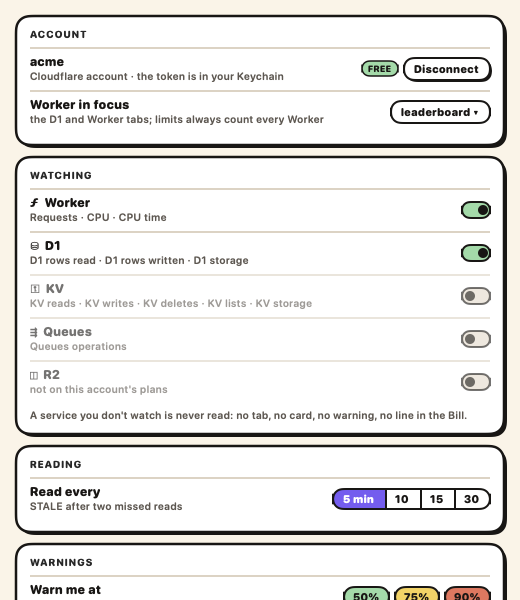
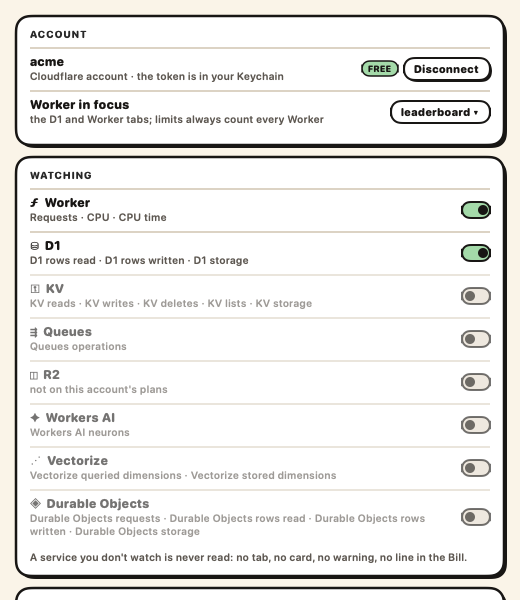
Workers AI, Vectorize, Durable Objects, off until watched (slices 13–15)
Workers AI's 10k neurons are a daily allowance on both plans; on Workers
Paid its overage is billed day by day (law 24), and a busy day is
charged, never a day the plan stopped you. Vectorize counts queried and
stored dimensions; Durable Objects requests, SQLite rows and storage.
Datasets verified by introspection. New units: neurons, dimensions.

Changed region(s): [[0.0, 0.66, 0.9846, 1.0]]

diff --git a/Modules/Plans/Sources/Plan.swift b/Modules/Plans/Sources/Plan.swift
@@ -24,6 +24,10 @@ public struct Plan: Sendable, Equatable {
 
     func price(for limit: LimitID) -> Price? { owner(of: limit)?.definition.price(for: limit) }
 
+    /// Whether use past the allowance fails instead of being charged: Free stops, Workers Paid
+    /// charges, even for a daily allowance like Workers AI's (laws 19, 24).
+    public func stops(at limit: LimitID) -> Bool { price(for: limit) == nil }
+
     /// The period a limit's reading covers at `now` (CANONICAL law 5), on the renewal of the
     /// subscription that names it; nil for what never resets and for a limit no plan counts.
     public func period(for limit: LimitID, at now: Date) -> Period? {
@@ -33,11 +37,13 @@ public struct Plan: Sendable, Equatable {
 
     /// One line per priced limit: its use, what the plan includes, and the price of the rest
     /// (law 20). The subscription is not a line; the lines and it add up to `cost(of:)`.
-    public func lines(of used: [LimitID: Quantity]) -> [CostLine] {
+    /// `days` is each daily limit's use per UTC day this month; `stretch` scales a daily limit's
+    /// overage to the month's end for a forecast or a quote (law 24).
+    public func lines(of used: [LimitID: Quantity], days: [LimitID: [Date: Quantity]] = [:], stretch: Double = 1) -> [CostLine] {
         used.compactMap { limit, quantity -> CostLine? in
-            guard let price = price(for: limit), let allowance = allowance(for: limit) else { return nil }
-            return CostLine(limit: limit, used: quantity, included: allowance.amount,
-                            cost: price.cost(of: quantity, allowance: allowance.amount))
+            guard let cost = cost(of: limit, used: quantity, days: days[limit], stretch: stretch),
+                  let allowance = allowance(for: limit) else { return nil }
+            return CostLine(limit: limit, used: quantity, included: allowance.amount, cost: cost)
         }
         .sorted { $0.limit.rawValue < $1.limit.rawValue }
     }
@@ -45,12 +51,23 @@ public struct Plan: Sendable, Equatable {
     /// The subscriptions (this plan's and its add-ons'), plus for each limit the price of what
     /// went past its allowance (CANONICAL laws 13–14, 23). `used` is each limit's use over the
     /// billing month.
-    public func cost(of used: [LimitID: Quantity]) -> Money {
+    public func cost(of used: [LimitID: Quantity], days: [LimitID: [Date: Quantity]] = [:], stretch: Double = 1) -> Money {
         let subscriptions = addOns.reduce(definition.subscription) { $0 + $1.definition.subscription }
         return used.reduce(subscriptions) { total, entry in
-            guard let price = price(for: entry.key), let allowance = allowance(for: entry.key) else { return total }
-            return total + price.cost(of: entry.value, allowance: allowance.amount)
+            guard let cost = cost(of: entry.key, used: entry.value, days: days[entry.key], stretch: stretch) else { return total }
+            return total + cost
         }
+    }
+
+    /// One limit's price past its allowance; nil when no plan prices it. A daily allowance with
+    /// a price is billed day by day: each UTC day's use past it, added up (law 24).
+    func cost(of limit: LimitID, used: Quantity, days: [Date: Quantity]?, stretch: Double) -> Money? {
+        guard let price = price(for: limit), let allowance = allowance(for: limit) else { return nil }
+        guard case .perDay(let daily) = allowance, let days, !days.isEmpty else {
+            return price.cost(of: used, allowance: allowance.amount)
+        }
+        let over = days.values.reduce(0) { $0 + max($1.value - daily.value, 0) } * stretch
+        return price.cost(of: Quantity(over, daily.unit), allowance: Quantity(0, daily.unit))
     }
 }
 

diff --git a/Modules/Services/Tests/BuiltInServicesTests.swift b/Modules/Services/Tests/BuiltInServicesTests.swift
@@ -5,8 +5,35 @@ import Measures
 /// The built-in service files, read through the real JSON.
 @Suite
 struct BuiltInServicesTests {
-    @Test func `should show Workers, then D1, KV, Queues and R2`() throws {
-        #expect(try ServiceCatalog.builtIns().map(\.id) == ["workers", "d1", "kv", "queues", "r2"])
+    @Test func `should show Workers, then D1, KV, Queues, R2, Workers AI, Vectorize and Durable Objects`() throws {
+        #expect(try ServiceCatalog.builtIns().map(\.id) == ["workers", "d1", "kv", "queues", "r2", "ai", "vectorize", "durable-objects"])
+    }
+
+    @Test func `should leave every service but Workers and D1 off until the person watches it`() throws {
+        #expect(try ServiceCatalog.builtIns().filter { !$0.watchedByDefault }.map(\.id)
+                == ["kv", "queues", "r2", "ai", "vectorize", "durable-objects"])
+    }
+
+    @Test func `should know Workers AI counts neurons across every model`() throws {
+        let neurons = try #require(try ServiceCatalog.builtIn("ai").limits.first)
+        #expect(neurons.id == "ai.neurons")
+        #expect(neurons.unit == .neurons)
+        #expect(neurons.read == .sum(Read.Source(dataset: "aiInferenceAdaptiveGroups", field: "sum.totalNeurons", time: .datetime)))
+    }
+
+    @Test func `should know Vectorize counts queried dimensions, and stored dimensions across every index`() throws {
+        let vectorize = try ServiceCatalog.builtIn("vectorize")
+        #expect(vectorize.limits.map(\.id) == ["vectorize.queried", "vectorize.stored"])
+        #expect(vectorize.limits[1].read == .max(Read.Source(dataset: "vectorizeV2StorageAdaptiveGroups", field: "max.storedVectorDimensions",
+                                                             time: .datetime, focus: "indexName")))
+    }
+
+    @Test func `should know Durable Objects counts requests, SQLite rows and storage`() throws {
+        let objects = try ServiceCatalog.builtIn("durable-objects")
+        #expect(objects.limits.map(\.id) == ["durable-objects.requests", "durable-objects.rowsRead",
+                                             "durable-objects.rowsWritten", "durable-objects.storage"])
+        #expect(objects.limits[1].read == .sum(Read.Source(dataset: "durableObjectsPeriodicGroups", field: "sum.rowsRead",
+                                                           time: .datetime, focus: "namespaceId")))
     }
 
     @Test func `should know R2's Class B is reads like GetObject and HeadObject, and leave R2 off until watched`() throws {
@@ -31,7 +58,7 @@ struct BuiltInServicesTests {
         #expect(queues.watchedByDefault == false)
     }
 
-    @Test func `should know KV writes are KV's write operations, and leave KV off until the person watches it`() throws {
+    @Test func `should know KV writes are KV's write operations`() throws {
         let kv = try ServiceCatalog.builtIn("kv")
 
         let writes = try #require(kv.limits.first { $0.id == "kv.writes" })

diff --git a/Modules/Plans/Tests/PlanTests.swift b/Modules/Plans/Tests/PlanTests.swift
@@ -124,6 +124,36 @@ struct BuiltInPlansTests {
         #expect(paid.cost(of: ["queues.operations": Quantity(3_000_000, .operations)]) == Money(Decimal(string: "5.80")!, "USD"))
     }
 
+    @Test func `should allow 10k Workers AI neurons a day on both plans, and charge past it only on Workers Paid`() throws {
+        #expect(try PlanCatalog.builtIn("free").allowance(for: "ai.neurons") == .perDay(Quantity(10_000, .neurons)))
+        #expect(try PlanCatalog.builtIn("free").price(for: "ai.neurons") == nil)
+        #expect(try PlanCatalog.builtIn("workers-paid").allowance(for: "ai.neurons") == .perDay(Quantity(10_000, .neurons)))
+    }
+
+    @Test func `should charge Workers AI day by day: only each day's neurons past 10k`() throws {
+        let paid = Plan(try PlanCatalog.builtIn("workers-paid"), renewsOn: nil)
+        let days: [LimitID: [Date: Quantity]] = ["ai.neurons": [.utc("2026-10-01T00:00:00"): Quantity(25_000, .neurons),
+                                                               .utc("2026-10-02T00:00:00"): Quantity(5_000, .neurons)]]
+        let used: [LimitID: Quantity] = ["ai.neurons": Quantity(30_000, .neurons)]
+
+        // 15k past the allowance on the 1st, none on the 2nd: 15 × $0.011.
+        #expect(paid.cost(of: used, days: days) == Money(Decimal(string: "5.165")!, "USD"))
+        #expect(paid.lines(of: used, days: days).first?.cost == Money(Decimal(string: "0.165")!, "USD"))
+    }
+
+    @Test func `should know Vectorize's allowances on each plan`() throws {
+        #expect(try PlanCatalog.builtIn("free").allowance(for: "vectorize.queried") == .perMonth(Quantity(30_000_000, .dimensions)))
+        #expect(try PlanCatalog.builtIn("free").allowance(for: "vectorize.stored") == .total(Quantity(5_000_000, .dimensions)))
+        #expect(try PlanCatalog.builtIn("workers-paid").allowance(for: "vectorize.queried") == .perMonth(Quantity(50_000_000, .dimensions)))
+    }
+
+    @Test func `should know Durable Objects' allowances on each plan`() throws {
+        #expect(try PlanCatalog.builtIn("free").allowance(for: "durable-objects.requests") == .perDay(Quantity(100_000, .requests)))
+        #expect(try PlanCatalog.builtIn("workers-paid").allowance(for: "durable-objects.rowsRead") == .perMonth(Quantity(25_000_000_000, .rows)))
+        let paid = Plan(try PlanCatalog.builtIn("workers-paid"), renewsOn: nil)
+        #expect(paid.cost(of: ["durable-objects.requests": Quantity(3_000_000, .requests)]) == Money(Decimal(string: "5.30")!, "USD"))
+    }
+
     @Test func `should take R2 as an add-on beside the Workers plan when the account has R2`() throws {
         #expect(try PlanCatalog.addOns(forRatePlans: ["r2_paid"], among: .builtIns()).map(\.id) == ["r2-paid"])
         #expect(try PlanCatalog.addOns(forRatePlans: ["workers_paid"], among: .builtIns()).isEmpty)

diff --git a/Modules/Billing/Sources/Bill.swift b/Modules/Billing/Sources/Bill.swift
@@ -17,6 +17,8 @@ public struct Bill: Sendable, Equatable {
     let projected: [LimitID: Quantity]
     /// Each limit's use per UTC day of the month.
     let daily: [LimitID: [Date: Quantity]]
+    /// From the month so far to the whole month: a daily limit's overage is stretched by it (law 24).
+    let stretch: Double
 
     /// `monthToDate` is what was used up this billing month; `kept` is what is stored, which a
     /// pace doesn't stretch.
@@ -28,20 +30,21 @@ public struct Bill: Sendable, Equatable {
         self.period = period
         let elapsed = max(period.elapsedFraction(at: now), 1.0 / 31)
         projected = monthToDate.mapValues { Quantity($0.value / elapsed, $0.unit) }.merging(kept) { $1 }
-        estimate = plan.cost(of: monthToDate.merging(kept) { $1 })
-        forecast = plan.cost(of: projected)
+        stretch = 1 / elapsed
+        estimate = plan.cost(of: monthToDate.merging(kept) { $1 }, days: daily)
+        forecast = plan.cost(of: projected, days: daily, stretch: stretch)
         self.invoices = invoices.sorted { $0.at > $1.at }
         issued = invoices.first { period.contains($0.at) }
     }
 
     /// The same month's pace, priced by another plan: *On Workers Paid $5.00* (law 14).
     public func quote(on other: Plan) -> Money {
-        other.cost(of: projected)
+        other.cost(of: projected, days: daily, stretch: stretch)
     }
 
     /// Where a plan's price for this month's pace comes from, one line per limit (law 20).
     public func lines(on other: Plan) -> [CostLine] {
-        other.lines(of: projected)
+        other.lines(of: projected, days: daily, stretch: stretch)
     }
 
     /// For each limit `plan` allows per day: the allowance, the month's busiest day, and the days
@@ -51,7 +54,7 @@ public struct Bill: Sendable, Equatable {
         for (limit, days) in daily {
             guard case .perDay(let allowance)? = plan.allowance(for: limit) else { continue }
             let busiest = days.max { $0.value.value < $1.value.value }.map { DayUse(day: $0.key, used: $0.value) }
-            let stopped = days.filter { $0.value.value >= allowance.value }.keys.sorted()
+            let stopped = plan.stops(at: limit) ? days.filter { $0.value.value >= allowance.value }.keys.sorted() : []
             result[limit] = LimitDays(allowance: allowance, busiest: busiest, stopped: stopped)
         }
         return result

diff --git a/Modules/Billing/Tests/BillTests.swift b/Modules/Billing/Tests/BillTests.swift
@@ -39,6 +39,26 @@ struct BillTests {
         #expect(abs(NSDecimalNumber(decimal: bill.forecast.amount).doubleValue - 10) < 0.001)
     }
 
+    @Test func `should bill Workers AI day by day, and forecast by stretching the overage, not the total`() {
+        let days: [LimitID: [Date: Quantity]] = ["ai.neurons": [.utc("2026-10-01T00:00:00"): Quantity(25_000, .neurons),
+                                                               .utc("2026-10-02T00:00:00"): Quantity(5_000, .neurons)]]
+        let bill = Bill(plan: paid, monthToDate: ["ai.neurons": Quantity(30_000, .neurons)], kept: [:], invoices: [], daily: days, at: now)
+
+        #expect(bill.estimate == Money(Decimal(string: "5.165")!, "USD"))
+        // $0.165 so far, a third of the month gone: on pace for $0.495.
+        #expect(abs(NSDecimalNumber(decimal: bill.forecast.amount).doubleValue - 5.495) < 0.001)
+    }
+
+    @Test func `should never say Workers Paid stopped Workers AI on a busy day, since it charges instead`() {
+        let days: [LimitID: [Date: Quantity]] = ["ai.neurons": [.utc("2026-10-01T00:00:00"): Quantity(25_000, .neurons)]]
+
+        let onPaid = Bill(plan: paid, monthToDate: ["ai.neurons": Quantity(25_000, .neurons)], kept: [:], invoices: [], daily: days, at: now)
+        let onFree = Bill(plan: free, monthToDate: ["ai.neurons": Quantity(25_000, .neurons)], kept: [:], invoices: [], daily: days, at: now)
+
+        #expect(onPaid.verdict == .enough)
+        #expect(onFree.verdict == .stopped(days: [.utc("2026-10-01T00:00:00")], limits: ["ai.neurons"]))
+    }
+
     @Test func `should not stretch storage by the month's pace, since it is kept, not used up`() {
         let bill = Bill(plan: paid, monthToDate: [:], kept: ["d1.storage": Quantity(6e9, .bytes)], invoices: [], at: now)
         #expect(bill.forecast == Money(Decimal(string: "5.75")!, "USD"))

diff --git a/Modules/Measures/Sources/Quantity.swift b/Modules/Measures/Sources/Quantity.swift
@@ -6,11 +6,16 @@ public enum QuantityUnit: String, Sendable, Codable, CaseIterable {
     case rows, requests, milliseconds, bytes, count
     /// Queues: 64 KB written, read or deleted.
     case operations
+    /// Workers AI's unit of compute.
+    case neurons
+    /// Vectorize: one number of one vector.
+    case dimensions
 
     /// The word a definition file writes after the number, and how many base units it means:
     /// `GB` is a billion bytes, as Cloudflare prices storage.
     static let words: [String: (QuantityUnit, Double)] = [
         "rows": (.rows, 1), "requests": (.requests, 1), "count": (.count, 1), "operations": (.operations, 1),
+        "neurons": (.neurons, 1), "dimensions": (.dimensions, 1),
         "ms": (.milliseconds, 1),
         "bytes": (.bytes, 1), "KB": (.bytes, 1e3), "MB": (.bytes, 1e6), "GB": (.bytes, 1e9),
     ]
@@ -62,7 +67,7 @@ extension Quantity {
                 return "\(Self.significant(value / size)) \(word)"
             }
             return "\(Int(value)) bytes"
-        case .rows, .requests, .count, .operations:
+        case .rows, .requests, .count, .operations, .neurons, .dimensions:
             for (size, word) in [(1e9, "B"), (1e6, "M"), (1e3, "k")] where value >= size {
                 return "\(Self.significant(value / size))\(word)"
             }

diff --git a/Modules/Measures/Tests/QuantityTests.swift b/Modules/Measures/Tests/QuantityTests.swift
@@ -17,6 +17,12 @@ struct QuantityTests {
         #expect(Quantity(1_250_000, .operations).short == "1.25M")
     }
 
+    @Test func `should read Workers AI's neurons and Vectorize's dimensions`() throws {
+        #expect(try Quantity(parsing: "10k neurons") == Quantity(10_000, .neurons))
+        #expect(try Quantity(parsing: "30M dimensions") == Quantity(30_000_000, .dimensions))
+        #expect(Quantity(12_500, .neurons).short == "12.5k")
+    }
+
     @Test func `should read 25B rows as twenty-five billion rows`() throws {
         #expect(try Quantity(parsing: "25B rows") == Quantity(25_000_000_000, .rows))
     }

diff --git a/docs/status.md b/docs/status.md
@@ -4,7 +4,7 @@ description: Where Overmind stands — what is built per module with test counts
 
 # Status
 
-> As of **2026-10-11** · **166 tests** (and 4 live checks), all passing. Every slice is built; the app
+> As of **2026-10-11** · **182 tests** (and 4 live checks), all passing. Every slice is built; the app
 > runs on a real account and on demo data. This file is the one home for
 > "what's built and what's next". Update it when a slice lands.
 
@@ -15,12 +15,12 @@ description: Where Overmind stands — what is built per module with test counts
 | Design: the five docs, the mockup | approved | — |
 | `Overmind` app | the menu bar, Today, the Workers and D1 tabs, Bill, Connect, the Settings window, `LoginItem`, `Updater` (Sparkle), the icon; demo mode and screenshots | — |
 | Release | `tests.yml`, `release.yml` (sign, notarize, DMG, appcast), ClaudeBar's scripts; a universal Release archive built and Developer-ID-signed locally | — |
-| `Measures` | `Quantity` (reads *5M rows*, prints *3.75M*, *75.7k ms*), `Money` (Decimal), `Period` (UTC day, billing month), `Percent`, `LimitID`; units rows, requests, ms, bytes, count, operations | 19 |
-| `Services` | `ServiceDefinition` (`watchedByDefault`), `LimitDefinition`, `Read` (`where`), `BreakdownDefinition`, `ServiceCatalog`; `workers.json`, `d1.json`, `kv.json`, `queues.json`, `r2.json` | 16 |
-| `Plans` | `PlanDefinition` (upgrade link, `addOn`), `Plan` (`addOns`), `Allowance`, `Price`, `cost(of:)`, `lines(of:)`, `PlanCatalog`; `free.json`, `workers-paid.json` (Workers, D1, KV, Queues), `r2-paid.json` | 28 |
+| `Measures` | `Quantity` (reads *5M rows*, prints *3.75M*, *75.7k ms*), `Money` (Decimal), `Period` (UTC day, billing month), `Percent`, `LimitID`; units rows, requests, ms, bytes, count, operations, neurons, dimensions | 20 |
+| `Services` | `ServiceDefinition` (`watchedByDefault`), `LimitDefinition`, `Read` (`where`), `BreakdownDefinition`, `ServiceCatalog`; `workers.json`, `d1.json`, `kv.json`, `queues.json`, `r2.json`, `ai.json`, `vectorize.json`, `durable-objects.json` | 20 |
+| `Plans` | `PlanDefinition` (upgrade link, `addOn`), `Plan` (`addOns`), `Allowance`, `Price`, `cost(of:)`, `lines(of:)`, `PlanCatalog`; `free.json`, `workers-paid.json` (every service but R2), `r2-paid.json`; law 24 (a priced daily allowance billed by the day) | 32 |
 | `Limits` | `Limit` (laws 2–8), `Usage`, `Level`, `Pace` | 16 |
 | `Analytics` | `ReadPlan` (one query; storage summed per database; per-day use; `where` filters), answers, breakdowns, `Focus`; `GraphQLAnalytics` | 18 + 2 live |
-| `Billing` | `Bill` (estimate, forecast, quote, lines, days stopped, verdict), `BillingAPI`; `CloudflareREST` | 16 + 1 live |
+| `Billing` | `Bill` (estimate, forecast, quote, lines, days stopped, verdict, day-by-day overage), `BillingAPI`; `CloudflareREST` | 18 + 1 live |
 | `Alerts` | laws 9–10, CPU stopped invocations; `UserNotifier` | 11 |
 | `Monitor` | `Account` (connect, choose, refresh, freshness, tabs, bill, alerts, read interval, plan re-read, watching, menu bar, add-ons), `Refresher` | 42 + 1 live |
 | `Storage` | `KeychainTokenVault`, `JSONSettingsFile` (older files still read) | 4 |
@@ -42,9 +42,9 @@ description: Where Overmind stands — what is built per module with test counts
 | 10 ✅ | The quiet menu bar | `Monitor` (`MenuBarState` as cases, `menuBarShows`, law 22), App (Settings row, label) | *Icon only* shows `☁` and the worst mark; before the first read the bar is `☁`, never an empty number. The GitHub issue's ask |
 | 11 ✅ | Queues | `queues.json`, both plan files, the `operations` unit | Queues operations against Free's 10k a day and Paid's 1M a month, off until watched |
 | 12 ✅ | R2, an add-on plan | `Plans` (`addOn`, `Plan.addOns`, law 23), `r2-paid.json`, `r2.json` | Class A, Class B and storage against R2's own free tier, on either Workers plan, priced in the Bill; off until watched |
-| 13 | Workers AI | `Plans` (law 24: a priced daily allowance billed day by day), `Billing`, `ai.json`, both plan files, the `neurons` unit | neurons against 10k a day; on Paid the Bill charges each day's overage |
-| 14 | Vectorize | `vectorize.json`, both plan files, the `dimensions` unit | queried and stored vector dimensions against each plan, off until watched |
-| 15 | Durable Objects | `durable-objects.json`, both plan files | requests, SQLite rows read and written, and storage; GB-s duration after a live read |
+| 13 ✅ | Workers AI | `Plans` (law 24: a priced daily allowance billed day by day), `Billing`, `ai.json`, both plan files, the `neurons` unit | neurons against 10k a day; on Paid the Bill charges each day's overage |
+| 14 ✅ | Vectorize | `vectorize.json`, both plan files, the `dimensions` unit | queried and stored vector dimensions against each plan, off until watched |
+| 15 ✅ | Durable Objects | `durable-objects.json`, both plan files | requests, SQLite rows read and written, and storage; GB-s duration after a live read |
 
 ## Decisions
 

diff --git a/docs/features/service-tabs/README.md b/docs/features/service-tabs/README.md
@@ -1,5 +1,5 @@
 ---
-description: The Worker, D1, KV, Queues and R2 tabs — the charts and lists each shows, the Worker focus, and the deployment pins. Read when a chart looks empty or different from the dashboard.
+description: The Worker, D1, KV, Queues, R2, Workers AI, Vectorize and Durable Objects tabs — the charts and lists each shows, the Worker focus, and the deployment pins. Read when a chart looks empty or different from the dashboard.
 ---
 
 # Service tabs
@@ -11,6 +11,9 @@ description: The Worker, D1, KV, Queues and R2 tabs — the charts and lists eac
 | **KV** | reads per day (7 days) · operations by type · the KV limits. Only when KV is watched (*Settings → Watching*); Cloudflare keeps KV's analytics by day, so there is no per-hour chart |
 | **Queues** | operations per hour today · operations by type (write, read, delete) · the Queues limit. Only when watched; the focus doesn't narrow it |
 | **R2** | Class A and Class B per hour today · operations by type · the R2 limits, against R2's own free tier. Only when watched, and only on an account with an R2 subscription |
+| **Workers AI** | neurons per hour today · top models by neurons · the neurons limit (10k a day on both plans) |
+| **Vectorize** | queried dimensions per day (7 days) · top indexes · queried and stored dimensions |
+| **Durable Objects** | requests per hour today · requests by outcome · requests, SQLite rows read and written, storage. The Worker focus narrows the request charts. GB-s duration isn't counted yet |
 
 - **The focus** (*leaderboard ▾ · All Workers*) narrows the charts to one Worker. The limits never change: Cloudflare counts them across the account.
 - **Pins** (*d605dc93*) mark when a version of the focused Worker went live.

diff --git a/docs/features/bill/README.md b/docs/features/bill/README.md
@@ -4,7 +4,7 @@ description: What the Bill tab says — this month's estimate, the forecast, the
 
 # Bill
 
-- **This month · est.** — what the month has cost so far by the plan's prices. On Free it is always $0: Free stops at its limits instead of charging. When a service isn't watched (*Settings → Watching*), the estimate leaves it out and says so: *est. · Worker only*. R2 is an add-on: its lines join the Workers plan's, and a quote for the other Workers plan keeps R2.
+- **This month · est.** — what the month has cost so far by the plan's prices. On Free it is always $0: Free stops at its limits instead of charging. When a service isn't watched (*Settings → Watching*), the estimate leaves it out and says so: *est. · Worker only*. R2 is an add-on: its lines join the Workers plan's, and a quote for the other Workers plan keeps R2. Workers AI's 10k neurons are a day's allowance even on Workers Paid, so its line charges each day's neurons past 10k, never the month's total.
 - **Forecast** — the month at its pace.
 - **If you upgraded** — first a verdict: *Free is enough*, or *Free stopped you on N days* (days a daily limit ran out). Then both plans for this month, and *This month on Workers Paid*: the subscription and one line per limit, so you see where each dollar would come from.
 - **Upgrade on Cloudflare ↗** — opens Cloudflare's Workers plans page; Cloudflare takes the payment. Overmind never changes your plan; after you upgrade, the next look at the Bill tab shows Workers Paid.

diff --git a/docs/features/settings/README.md b/docs/features/settings/README.md
@@ -9,7 +9,7 @@ Open it from the popover: **⚙ → Settings…**. Changes save at once.
 | Section | Holds |
 |---|---|
 | **Account** | the connected account and its plan · *Disconnect* · the Worker in focus |
-| **Watching** | one switch per service: *Worker* · *D1* · *KV* · *Queues* · *R2*. A service the account's plans don't count reads *not on this account's plans*. A service you don't watch is never read: no tab, no card, no menu bar number, no warning, no line in the Bill. The last one stays on. New services arrive off |
+| **Watching** | one switch per service: *Worker* · *D1* · *KV* · *Queues* · *R2* · *Workers AI* · *Vectorize* · *Durable Objects*. A service the account's plans don't count reads *not on this account's plans*. A service you don't watch is never read: no tab, no card, no menu bar number, no warning, no line in the Bill. The last one stays on. New services arrive off |
 | **Reading** | *Read every 5 · 10 · 15 · 30 minutes*. *STALE* shows after two missed reads |
 | **Warnings** | *Warn me at 50% 75% 90%* · *Warn on pace* · *Notifications* |
 | **General** | *Start at login* · *Check for updates automatically* · *Check now* |

diff --git a/CHANGELOG.md b/CHANGELOG.md
@@ -13,6 +13,7 @@ All notable changes to Overmind are recorded here, in the reader's order: Remove
 - Install with Homebrew: `brew install --cask tddworks/tap/overmind`.
 - Choose what Overmind watches: *Settings → Watching* turns Worker or D1 off. A service you don't watch is never read: no tab, no card, no menu bar number, no warning, and the Bill says what its estimate covers (*est. · Worker only*). New Cloudflare products will arrive off.
 - *Settings → General → Menu bar shows: Icon only* keeps the menu bar to `☁`, with `◐` or `⚠` when a limit needs watching.
+- Workers AI, Vectorize and Durable Objects (requests, SQLite rows, storage), each off until watched. On Workers Paid, Workers AI is billed day by day past its 10k neurons.
 - R2, on an account with R2: Class A, Class B and storage against R2's own free tier, priced in the Bill beside your Workers plan.
 - Queues: operations against Free's 10k a day or Workers Paid's 1M a month, once watched.
 - KV: turn it on in *Settings → Watching* to see reads, writes, deletes, lists and storage against your plan, with a KV tab, warnings and its lines in the Bill.
